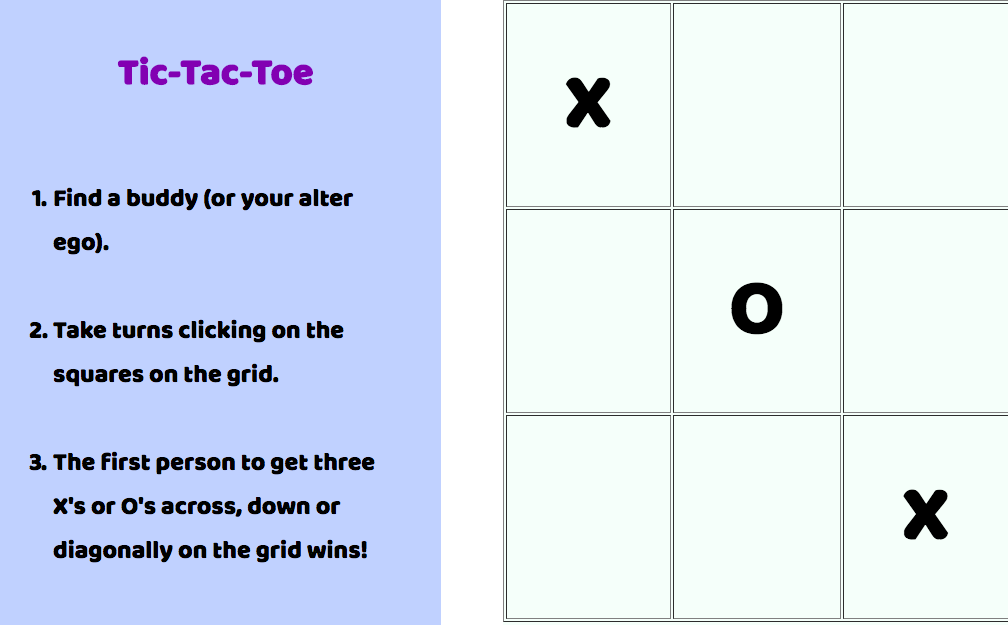
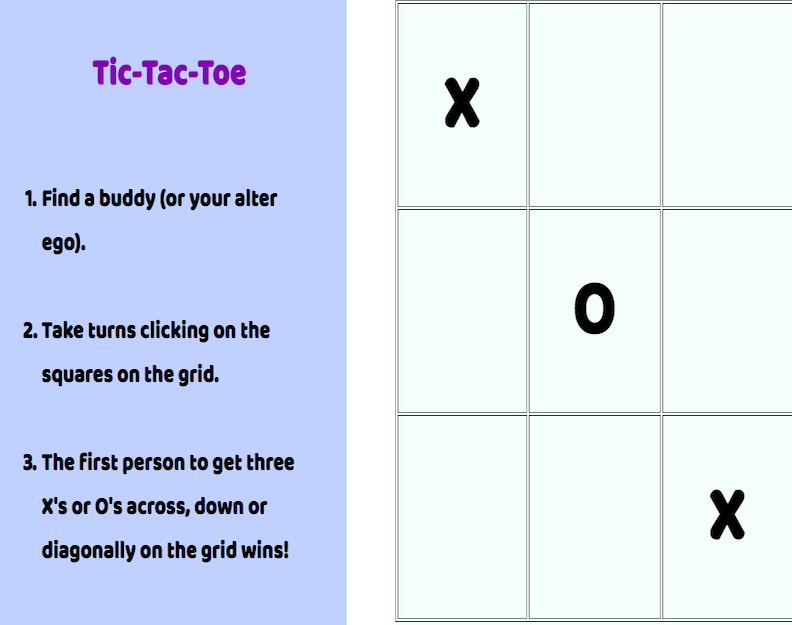
edit project thumbnails

diff --git a/index.html b/index.html
@@ -86,7 +86,7 @@
 </div>
 </div>
     <div class="pagedown">
-    <i class="fa fa-chevron-down" aria-hidden="true"><a href="#portfolio"></a></i>
+    <a href="#portfolio"><i class="fa fa-chevron-down" aria-hidden="true"></i></a>
     </div>
   </div>
 <div id="portfolio">
@@ -96,7 +96,7 @@
     <div class="portfoliohover">
     <img class="img-responsive" id="panelimage" src="images/javascriptquiz.png" class= "img-thumbnail panelimage" width="300" height="300">
     <div class="portfoliooverlay">
-      <h4>a quiz to help javascript beginners diagnose areas to review</h4>
+      <h4>a quiz to help JavaScript beginners diagnose areas to review</h4>
     </div>
     </div>
     </div>
@@ -127,17 +127,17 @@
       <div class ="container2">
         <div class="col-lg-3 portfoliopanels">
         <div class="portfoliohover">
-        <img class="img-responsive" id="panelimage" src="images/javascriptquiz.png" class= "img-thumbnail panelimage" width="300" height="300">
+        <img class="img-responsive" id="panelimage" src="images/shoppinglist.png" class= "img-thumbnail panelimage" width="300" height="300">
         <div class="portfoliooverlay">
-          <h4>a quiz to help javascript beginners diagnose areas to review</h4>
+          <h4>an interactive shopping list</h4>
         </div>
         </div>
         </div>
         <div class="col-lg-3 portfoliopanels">
         <div class="portfoliohover">
-        <img class="img-responsive" id="panelimage" src="images/inbrain.png" class= "img-thumbnail" width="300" height="300">
+        <img class="img-responsive" id="panelimage" src="images/tictactoe.png" class= "img-thumbnail" width="300" height="300">
         <div class="portfoliooverlay">
-          <h4>a tool to help learners incorporate principles of spaced repetition while studying</h4>
+          <h4>a jQuery rendition of the classic</h4>
         </div>
         </div>
         </div>

diff --git a/main.css b/main.css
@@ -283,6 +283,9 @@ h3 {
   padding-top: 67%;
   text-decoration: none;
 }
+i {
+  text-decoration: none;
+}
 a {
   text-decoration: none;
 }
